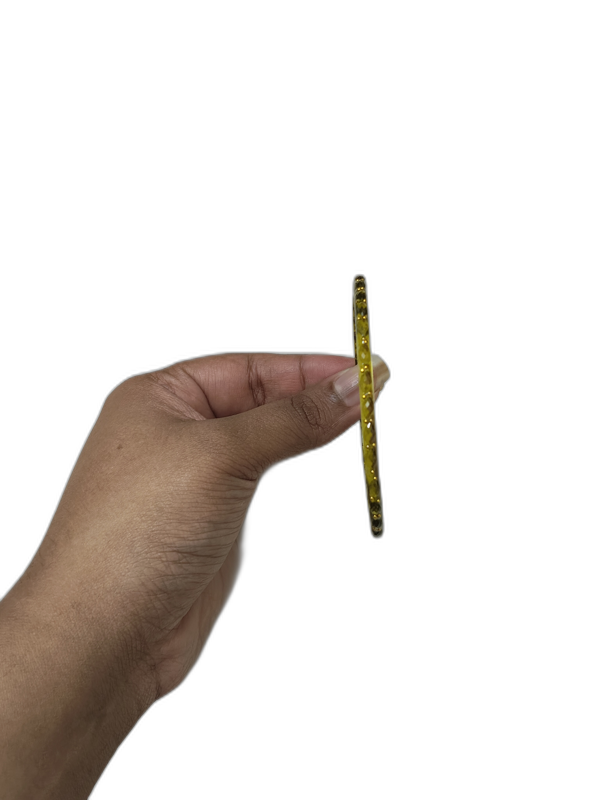
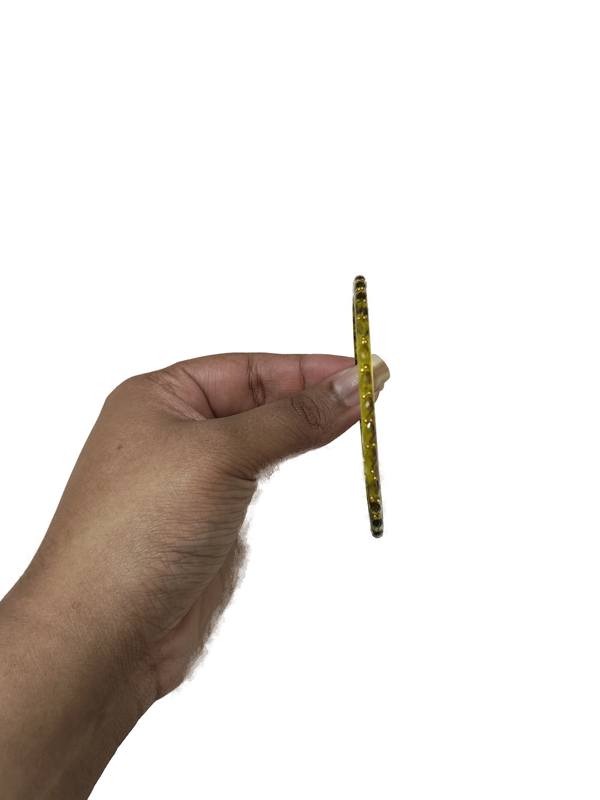
progress of bg removal

diff --git a/main.py b/main.py
@@ -1,4 +1,16 @@
-# main.py
+# =====================================
+# Dream Stack App – BG Removal + Rotate + Manual Crop
+# =====================================
+
+# =========================
+# CONFIG (must be first)
+# =========================
+from kivy.config import Config
+Config.set('input', 'mouse', 'mouse,disable_multitouch')  # Disable red touch dots
+
+# =========================
+# KIVY IMPORTS
+# =========================
 from kivy.app import App
 from kivy.uix.button import Button
 from kivy.uix.boxlayout import BoxLayout
@@ -6,118 +18,290 @@ from kivy.uix.filechooser import FileChooserIconView
 from kivy.uix.popup import Popup
 from kivy.uix.image import Image as KivyImage
 from kivy.uix.label import Label
+from kivy.uix.floatlayout import FloatLayout
+from kivy.uix.widget import Widget
 from kivy.clock import Clock
+from kivy.graphics import Color, Line
 from kivy.core.image import Image as CoreImage
 
+# =========================
+# PYTHON / IMAGE IMPORTS
+# =========================
 from PIL import Image as PILImage
 from rembg import remove
 from io import BytesIO
 import os
 import threading
 
-# Folder to save background-removed images
+# =========================
+# PATHS & CONSTANTS
+# =========================
 SCRIPT_DIR = os.path.dirname(os.path.abspath(__file__))
 JEWELRY_BOX = os.path.join(SCRIPT_DIR, "jewelry_box")
+os.makedirs(JEWELRY_BOX, exist_ok=True)
 
-# Ensure folder exists
-if os.path.exists(JEWELRY_BOX):
-    if not os.path.isdir(JEWELRY_BOX):
-        os.remove(JEWELRY_BOX)
-        os.makedirs(JEWELRY_BOX)
-else:
-    os.makedirs(JEWELRY_BOX)
+MAX_SIZE = (800, 800)
+ROT_STEP = 1  # degrees per click
 
-MAX_SIZE = (800, 800)  # Max size for processing to prevent huge images
+# =====================================
+# Draggable + resizable crop rectangle
+# =====================================
+class CropRectangle(Widget):
+    def __init__(self, **kwargs):
+        super().__init__(**kwargs)
+        self.rect_pos = [100, 100]
+        self.rect_size = [300, 300]
+        self.dragging = False
+        self.resizing = None
+        self.last_touch = (0, 0)
+        self.handle_size = 20
 
+        with self.canvas:
+            Color(1, 1, 1, 1)  # WHITE rectangle
+            self.line = Line(rectangle=(*self.rect_pos, *self.rect_size), width=2)
+
+    def get_handles(self):
+        x, y = self.rect_pos
+        w, h = self.rect_size
+        hs = self.handle_size
+        return {
+            "move": (x, y, w, h),
+            "left": (x - hs, y, hs, h),
+            "right": (x + w, y, hs, h),
+            "bottom": (x, y - hs, w, hs),
+            "top": (x, y + h, w, hs),
+            "bl": (x - hs, y - hs, hs, hs),
+            "br": (x + w, y - hs, hs, hs),
+            "tl": (x - hs, y + h, hs, hs),
+            "tr": (x + w, y + h, hs, hs),
+        }
+
+    def on_touch_down(self, touch):
+        for name, (hx, hy, hw, hh) in self.get_handles().items():
+            if hx <= touch.x <= hx + hw and hy <= touch.y <= hy + hh:
+                if name == "move":
+                    self.dragging = True
+                else:
+                    self.resizing = name
+                self.last_touch = touch.pos
+                return True
+        return super().on_touch_down(touch)
+
+    def on_touch_move(self, touch):
+        dx = touch.x - self.last_touch[0]
+        dy = touch.y - self.last_touch[1]
+
+        if self.dragging:
+            self.rect_pos[0] += dx
+            self.rect_pos[1] += dy
+        elif self.resizing:
+            x, y = self.rect_pos
+            w, h = self.rect_size
+
+            if "left" in self.resizing:
+                self.rect_pos[0] += dx
+                self.rect_size[0] -= dx
+            if "right" in self.resizing:
+                self.rect_size[0] += dx
+            if "bottom" in self.resizing:
+                self.rect_pos[1] += dy
+                self.rect_size[1] -= dy
+            if "top" in self.resizing:
+                self.rect_size[1] += dy
+
+        self.last_touch = touch.pos
+        self.update_graphics()
+        return True
+
+    def on_touch_up(self, touch):
+        self.dragging = False
+        self.resizing = None
+        return super().on_touch_up(touch)
+
+    def update_graphics(self):
+        self.line.rectangle = (*self.rect_pos, *self.rect_size)
+
+# =====================================
+# MAIN APP
+# =====================================
 class DreamStackApp(App):
     def build(self):
-        self.main_layout = BoxLayout(orientation='vertical', spacing=10, padding=10)
+        self.layout = BoxLayout(orientation="vertical", padding=10, spacing=10)
 
-        upload_button = Button(text="Upload Bangle Image", font_size=20, size_hint_y=None, height=50)
-        upload_button.bind(on_press=self.open_file_picker)
-        self.main_layout.add_widget(upload_button)
+        self.upload_btn = Button(text="Upload Bangle Image", size_hint_y=None, height=50)
+        self.upload_btn.bind(on_press=self.open_file_picker)
+        self.layout.add_widget(self.upload_btn)
 
-        return self.main_layout
+        return self.layout
 
-    def open_file_picker(self, instance):
-        layout = BoxLayout(orientation='vertical')
+    # -------------------------
+    # File chooser
+    # -------------------------
+    def open_file_picker(self, _):
+        chooser = FileChooserIconView(filters=["*.png", "*.jpg", "*.jpeg"])
+        select = Button(text="Select", size_hint_y=None, height=40)
 
-        self.filechooser = FileChooserIconView(filters=["*.png", "*.jpg", "*.jpeg"])
+        box = BoxLayout(orientation="vertical")
+        box.add_widget(chooser)
+        box.add_widget(select)
 
-        back_btn = Button(text="Back", size_hint_y=None, height=40)
-        back_btn.bind(on_press=lambda x: self.go_back())
+        popup = Popup(title="Choose Image", content=box, size_hint=(0.9, 0.9))
+        select.bind(on_press=lambda _: self.select_image(chooser.selection, popup))
+        popup.open()
 
-        select_btn = Button(text="Select File", size_hint_y=None, height=40)
-        select_btn.bind(on_press=lambda x: self.select_file())
+    def select_image(self, selection, popup):
+        if not selection:
+            return
+        popup.dismiss()
+        self.status = Label(text="Removing background...")
+        self.layout.add_widget(self.status)
 
-        layout.add_widget(back_btn)
-        layout.add_widget(self.filechooser)
-        layout.add_widget(select_btn)
+        threading.Thread(target=self.process_image, args=(selection[0],), daemon=True).start()
 
-        self.popup = Popup(title="Select a Bangle Image", content=layout, size_hint=(0.9, 0.9))
-        self.popup.open()
-
-    def go_back(self):
-        self.filechooser.path = os.path.dirname(self.filechooser.path)
-
-    def select_file(self):
-        selection = self.filechooser.selection
-        if selection:
-            input_path = selection[0]
-            self.popup.dismiss()
-
-            self.processing_label = Label(text="Processing image, please wait...", font_size=18, size_hint_y=None, height=30)
-            self.main_layout.add_widget(self.processing_label)
-
-            threading.Thread(target=self.process_image, args=(input_path,)).start()
-
-    def process_image(self, input_path):
+    # -------------------------
+    # Background removal
+    # -------------------------
+    def process_image(self, path):
         try:
-            output_path = os.path.join(JEWELRY_BOX, os.path.basename(input_path).split('.')[0] + "_no_bg.png")
-
-            # Open image
-            img = PILImage.open(input_path)
-
-            # Resize if too large
+            img = PILImage.open(path).convert("RGBA")
             img.thumbnail(MAX_SIZE)
 
-            # Remove background
-            output_img = remove(img)
+            out = remove(img, alpha_matting=True,
+                         alpha_matting_foreground_threshold=240,
+                         alpha_matting_background_threshold=10,
+                         alpha_matting_erode_size=10)
+            if not isinstance(out, PILImage.Image):
+                out = PILImage.fromarray(out)
 
-            # Convert to PIL Image if needed
-            if not isinstance(output_img, PILImage.Image):
-                output_img = PILImage.fromarray(output_img)
+            output_path = os.path.join(JEWELRY_BOX, "bangle_no_bg.png")
+            out.save(output_path)
 
-            # Save output
-            output_img.save(output_path)
-            print(f"Saved PNG without background: {output_path}")
-
-            # Convert to bytes buffer for Kivy
             buf = BytesIO()
-            output_img.save(buf, format='PNG')
+            out.save(buf, format="PNG")
             buf.seek(0)
 
-            # Schedule adding KivyImage on main thread
-            Clock.schedule_once(lambda dt: self.show_preview(buf))
+            # Show rotation screen first
+            Clock.schedule_once(lambda dt: self.show_rotation_screen(buf, out.size))
 
         except Exception as e:
-            print(f"Failed to process image: {e}")
-            Clock.schedule_once(lambda dt: self.show_failed_label(str(e)))
+            Clock.schedule_once(lambda dt: self.status.__setattr__("text", f"Failed: {e}"))
 
-    def show_preview(self, buf):
-        if hasattr(self, 'processing_label'):
-            self.main_layout.remove_widget(self.processing_label)
+    # ==============================
+    # NEW: ROTATION SCREEN
+    # ==============================
+    def show_rotation_screen(self, buf, img_size):
+        self.layout.clear_widgets()
+        self.rotation_angle = 0
 
-        preview = KivyImage()
-        preview.texture = CoreImage(buf, ext='png').texture
-        self.main_layout.add_widget(preview)
+        self.current_pil_image = PILImage.open(os.path.join(JEWELRY_BOX, "bangle_no_bg.png"))
 
-    def show_failed_label(self, error_msg):
-        if hasattr(self, 'processing_label'):
-            self.main_layout.remove_widget(self.processing_label)
-        fail_label = Label(text=f"Failed: {error_msg}", color=(1,0,0,1), font_size=18, size_hint_y=None, height=30)
-        self.main_layout.add_widget(fail_label)
+        self.rot_layout = FloatLayout()
+        self.layout.add_widget(self.rot_layout)
+
+        # Display image
+        self.kivy_image = KivyImage(texture=CoreImage(buf, ext="png").texture,
+                                    allow_stretch=True, keep_ratio=True)
+        self.kivy_image.size_hint = (1, 1)
+        self.rot_layout.add_widget(self.kivy_image)
+
+        # Fixed + sign at center
+        with self.kivy_image.canvas:
+            Color(1, 1, 1, 1)
+            Line(points=[self.kivy_image.width/2 - 20, self.kivy_image.height/2,
+                         self.kivy_image.width/2 + 20, self.kivy_image.height/2], width=2)
+            Line(points=[self.kivy_image.width/2, self.kivy_image.height/2 - 20,
+                         self.kivy_image.width/2, self.kivy_image.height/2 + 20], width=2)
+
+        # Rotate buttons
+        left_btn = Button(text="<-", size_hint=(0.1, 0.1), pos_hint={"x":0.05, "y":0.85})
+        right_btn = Button(text="->", size_hint=(0.1, 0.1), pos_hint={"x":0.85, "y":0.85})
+        left_btn.bind(on_press=lambda _: self.rotate_image(-ROT_STEP))
+        right_btn.bind(on_press=lambda _: self.rotate_image(ROT_STEP))
+        self.rot_layout.add_widget(left_btn)
+        self.rot_layout.add_widget(right_btn)
+
+        # Done button
+        done_btn = Button(text="Done", size_hint=(0.2, 0.1), pos_hint={"center_x":0.5, "y":0.02})
+        done_btn.bind(on_press=lambda _: self.open_crop_screen())
+        self.rot_layout.add_widget(done_btn)
+
+    # -------------------------
+    # Rotate PIL + refresh Kivy image
+    # -------------------------
+    def rotate_image(self, degrees):
+        self.rotation_angle += degrees
+        rotated = self.current_pil_image.rotate(self.rotation_angle, expand=True)
+        buf = BytesIO()
+        rotated.save(buf, format="PNG")
+        buf.seek(0)
+        self.kivy_image.texture = CoreImage(buf, ext="png").texture
+
+    # ==============================
+    # CROP SCREEN
+    # ==============================
+    def open_crop_screen(self):
+        self.layout.clear_widgets()
+        buf = BytesIO()
+        self.current_pil_image.save(buf, format="PNG")
+        buf.seek(0)
+
+        # Image
+        self.kivy_image = KivyImage(texture=CoreImage(buf, ext="png").texture,
+                                    allow_stretch=True, keep_ratio=True)
+        self.kivy_image.size_hint = (1, 1)
+
+        # Crop rectangle
+        self.crop_rect = CropRectangle()
+
+        # Container
+        container = FloatLayout()
+        container.add_widget(self.kivy_image)
+        container.add_widget(self.crop_rect)
+
+        # Crop button
+        save_btn = Button(text="Crop & Save", size_hint=(0.3, 0.1), pos_hint={"center_x":0.5, "y":0.02})
+        save_btn.bind(on_press=lambda _: self.crop_and_save())
+        self.layout.add_widget(container)
+        self.layout.add_widget(save_btn)
+
+        # Back button to rotation
+        back_btn = Button(text="Back", size_hint=(0.2, 0.1), pos_hint={"x":0.02, "y":0.02})
+        back_btn.bind(on_press=lambda _: self.show_rotation_screen(
+            buf=BytesIO(self.current_pil_image.tobytes()),
+            img_size=self.current_pil_image.size
+        ))
+        self.layout.add_widget(back_btn)
+
+    # -------------------------
+    # Apply crop
+    # -------------------------
+    def crop_and_save(self):
+        img_w, img_h = self.current_pil_image.size
+        disp_w, disp_h = self.kivy_image.size
+        disp_x, disp_y = self.kivy_image.pos
+
+        rx, ry = self.crop_rect.rect_pos
+        rw, rh = self.crop_rect.rect_size
+
+        scale_x = img_w / disp_w
+        scale_y = img_h / disp_h
+
+        left = max(0, int((rx - disp_x) * scale_x))
+        bottom = max(0, int((ry - disp_y) * scale_y))
+        right = min(img_w, int((rx + rw - disp_x) * scale_x))
+        top = min(img_h, int((ry + rh - disp_y) * scale_y))
+
+        cropped = self.current_pil_image.crop((left, bottom, right, top))
+        save_path = os.path.join(JEWELRY_BOX, "bangle_cropped.png")
+        cropped.save(save_path)
+
+        self.layout.clear_widgets()
+        self.layout.add_widget(Label(text="✅ Cropped & saved successfully", font_size=20))
+        print("Saved:", save_path)
 
 
+# =========================
+# RUN
+# =========================
 if __name__ == "__main__":
     DreamStackApp().run()
